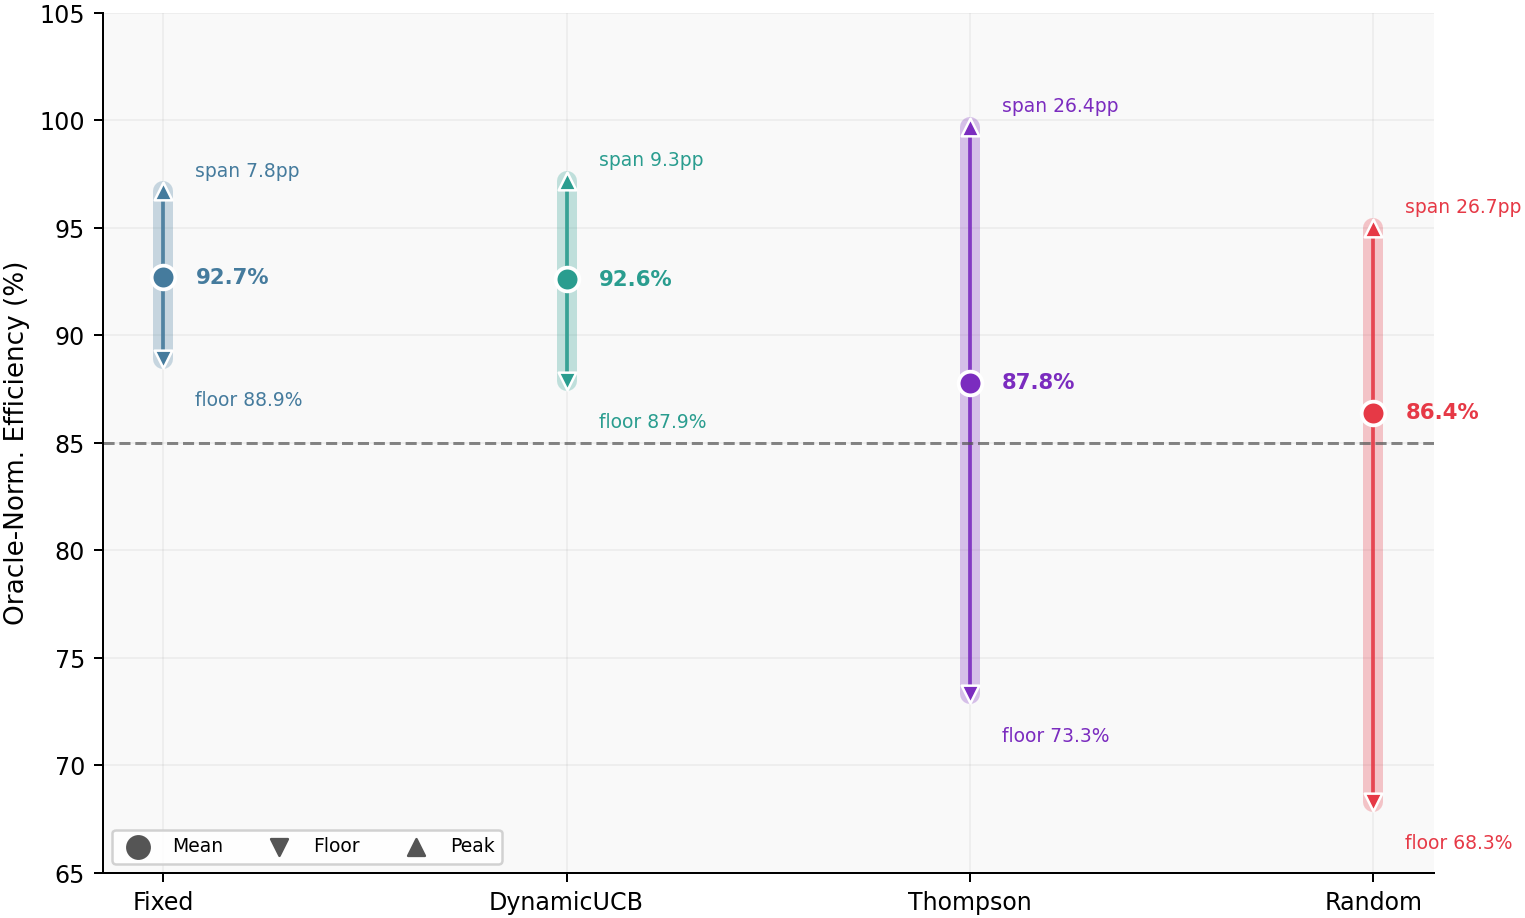
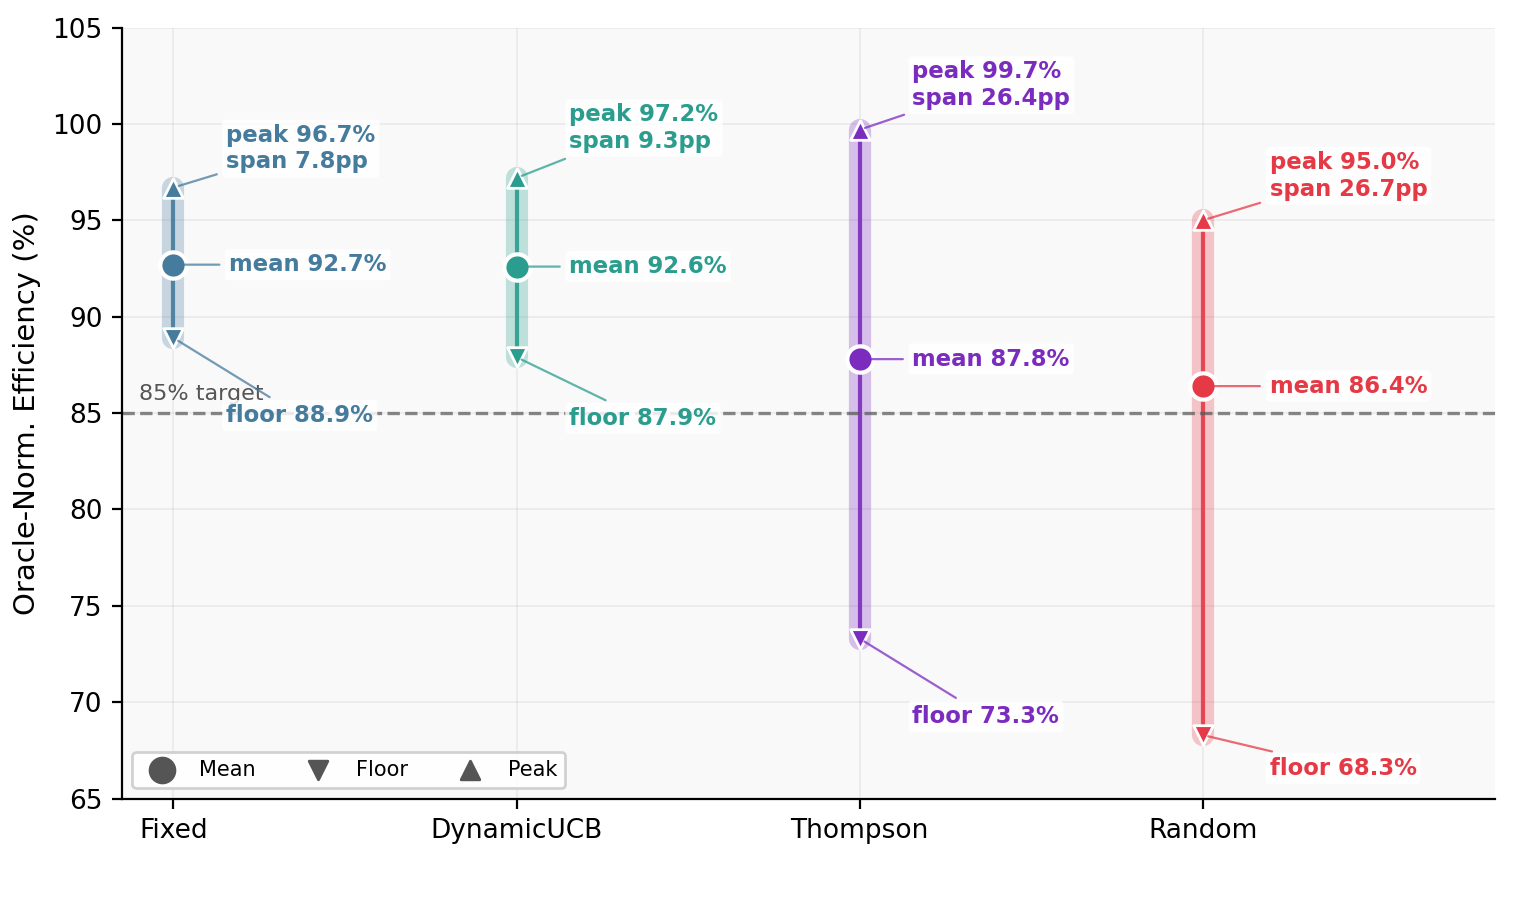
Label Figure 7B allocator risk values

diff --git a/figures/icnp-exported-assets/build_G8_G9.py b/figures/icnp-exported-assets/build_G8_G9.py
@@ -13,10 +13,12 @@ All data sourced from validated main.tex tables:
   topology §IV-A (4-node diamond, 35-qubit budget)
 
 Run from repo root:
-  python figures/icnp_graphs/build_G8_G9.py
+  python figures/icnp-exported-assets/build_G8_G9.py
+  python figures/icnp-exported-assets/build_G8_G9.py --only panel-h
 """
 from __future__ import annotations
 from pathlib import Path
+import argparse
 import matplotlib
 matplotlib.use('Agg')
 import matplotlib.pyplot as plt
@@ -27,6 +29,11 @@ import numpy as np
 SCRIPT_DIR = Path(__file__).resolve().parent
 OUT_G8 = SCRIPT_DIR / "G8_advanced_4panel.png"
 OUT_G9 = SCRIPT_DIR / "G9_network_gap_analysis.png"
+OUT_PANEL_H = (
+    SCRIPT_DIR.parent
+    / "icnp"
+    / "ICNP-CODE-037_g9_network_gap_analysis_panel_h_allocator_risk_floor_mean_peak_icpursuit.png"
+)
 
 RNG = np.random.default_rng(42)
 
@@ -159,6 +166,63 @@ def label_bar_values_inside(ax, bars, *, suffix='%', text_color='white', y_paddi
             fontweight='bold',
             zorder=7,
         )
+
+
+def annotate_point_value(ax, x, y, text, color, xytext, *, ha='left'):
+    ax.annotate(
+        text,
+        xy=(x, y),
+        xytext=xytext,
+        textcoords='offset points',
+        ha=ha,
+        va='center',
+        fontsize=8.2,
+        color=color,
+        fontweight='bold',
+        bbox=dict(boxstyle='round,pad=0.18', facecolor='white', alpha=0.84, edgecolor='none'),
+        arrowprops=dict(arrowstyle='-', color=color, lw=0.8, alpha=0.75),
+        zorder=9,
+        clip_on=False,
+    )
+
+
+def draw_allocator_risk_panel(ax, *, include_panel_label=True):
+    alloc_names_h = ['Fixed', 'DynamicUCB', 'Thompson', 'Random']
+    alloc_cols_h = [C['FIXED'], C['DUB'], C['THOM'], C['RAND']]
+    alloc_peak_h = [min(100.0, f + s) for f, s in zip(ALLOC_FLOOR, ALLOC_SPAN)]
+    label_offsets = {
+        'Fixed': dict(peak=(19, 14), mean=(20, 0), floor=(19, -28), ha='left'),
+        'DynamicUCB': dict(peak=(19, 18), mean=(19, 0), floor=(19, -22), ha='left'),
+        'Thompson': dict(peak=(19, 16), mean=(19, 0), floor=(19, -28), ha='left'),
+        'Random': dict(peak=(24, 16), mean=(24, 0), floor=(24, -12), ha='left'),
+    }
+    for i, (an, ac) in enumerate(zip(alloc_names_h, alloc_cols_h)):
+        fl = ALLOC_FLOOR[i]
+        avg = ALLOC_AVG[i]
+        pk = alloc_peak_h[i]
+        ax.plot([i, i], [fl, pk], color=ac, lw=8, alpha=0.28, solid_capstyle='round')
+        ax.plot([i, i], [fl, pk], color=ac, lw=1.5, alpha=0.9)
+        ax.scatter(i, avg, s=90, color=ac, zorder=6, edgecolors='white', lw=1.5)
+        ax.scatter(i, fl, s=50, marker='v', color=ac, zorder=6, edgecolors='white', lw=1)
+        ax.scatter(i, pk, s=50, marker='^', color=ac, zorder=6, edgecolors='white', lw=1)
+        offsets = label_offsets[an]
+        annotate_point_value(ax, i, pk, f'peak {pk:.1f}%\nspan {ALLOC_SPAN[i]:.1f}pp', ac, offsets['peak'], ha=offsets['ha'])
+        annotate_point_value(ax, i, avg, f'mean {avg:.1f}%', ac, offsets['mean'], ha=offsets['ha'])
+        annotate_point_value(ax, i, fl, f'floor {fl:.1f}%', ac, offsets['floor'], ha=offsets['ha'])
+    ax.axhline(85, color=C['THRESH'], ls='--', lw=1.2, alpha=0.7)
+    ax.text(-0.1, 85.45, '85% target', ha='left', va='bottom', fontsize=8.0, color=C['THRESH'])
+    ax.set_xticks(range(4))
+    ax.set_xticklabels(alloc_names_h)
+    ax.set_xlim(-0.15, 3.85)
+    ax.set_ylim(65, 105)
+    ax.set_ylabel('Oracle-Norm. Efficiency (%)')
+    ax.set_facecolor('#f9f9f9')
+    ax.scatter([], [], s=80, color='#555', label='Mean')
+    ax.scatter([], [], s=45, color='#555', marker='v', label='Floor')
+    ax.scatter([], [], s=45, color='#555', marker='^', label='Peak')
+    ax.legend(fontsize=7.5, loc='lower left', ncol=3, frameon=True, framealpha=0.88)
+    if include_panel_label:
+        panel_label(ax, 'H', 'Allocator Risk: Floor / Mean / Peak (iCPursuitNeural)')
 
 
 def base_style():
@@ -412,27 +476,7 @@ def build_G9():
     panel_label(ax7,'G','Scenario Penalty vs Baseline by Algorithm & Threat')
 
     # H: allocator risk profile
-    alloc_names_h=['Fixed','DynamicUCB','Thompson','Random']
-    alloc_cols_h=[C['FIXED'],C['DUB'],C['THOM'],C['RAND']]
-    alloc_peak_h=[min(100.0,f+s) for f,s in zip(ALLOC_FLOOR,ALLOC_SPAN)]
-    for i,(an,ac) in enumerate(zip(alloc_names_h,alloc_cols_h)):
-        fl=ALLOC_FLOOR[i]; avg=ALLOC_AVG[i]; pk=alloc_peak_h[i]
-        ax8.plot([i,i],[fl,pk],color=ac,lw=8,alpha=0.28,solid_capstyle='round')
-        ax8.plot([i,i],[fl,pk],color=ac,lw=1.5,alpha=0.9)
-        ax8.scatter(i,avg,s=90,color=ac,zorder=6,edgecolors='white',lw=1.5)
-        ax8.scatter(i,fl,s=50,marker='v',color=ac,zorder=6,edgecolors='white',lw=1)
-        ax8.scatter(i,pk,s=50,marker='^',color=ac,zorder=6,edgecolors='white',lw=1)
-        ax8.text(i+0.08,avg,f'{avg:.1f}%',va='center',fontsize=8.5,color=ac,fontweight='bold')
-        ax8.text(i+0.08,fl-1.5,f'floor {fl:.1f}%',va='top',fontsize=7.5,color=ac)
-        ax8.text(i+0.08,pk+0.5,f'span {ALLOC_SPAN[i]:.1f}pp',va='bottom',fontsize=7.5,color=ac)
-    ax8.axhline(85,color=C['THRESH'],ls='--',lw=1.2,alpha=0.7)
-    ax8.set_xticks(range(4)); ax8.set_xticklabels(alloc_names_h)
-    ax8.set_ylim(65,105); ax8.set_ylabel('Oracle-Norm. Efficiency (%)')
-    ax8.set_facecolor('#f9f9f9')
-    ax8.scatter([],[],s=80,color='#555',label='Mean'); ax8.scatter([],[],s=45,color='#555',marker='v',label='Floor')
-    ax8.scatter([],[],s=45,color='#555',marker='^',label='Peak')
-    ax8.legend(fontsize=7.5,loc='lower left',ncol=3,frameon=True,framealpha=0.88)
-    panel_label(ax8,'H','Allocator Risk: Floor / Mean / Peak (iCPursuitNeural)')
+    draw_allocator_risk_panel(ax8)
 
     # I: cross-testbed violin
     tl=list(TESTBED_EFF.keys()); tv=list(TESTBED_EFF.values())
@@ -470,7 +514,30 @@ def build_G9():
     print(f"Wrote {OUT_G9}")
 
 
+def build_allocator_risk_panel():
+    base_style()
+    fig, ax = plt.subplots(figsize=(7.625, 4.59), dpi=200)
+    fig.patch.set_facecolor('white')
+    draw_allocator_risk_panel(ax, include_panel_label=False)
+    fig.subplots_adjust(left=0.08, right=0.98, top=0.97, bottom=0.13)
+    fig.savefig(OUT_PANEL_H, dpi=200, facecolor='white')
+    plt.close(fig)
+    print(f"Wrote {OUT_PANEL_H}")
+
+
 if __name__ == "__main__":
-    build_G8()
-    build_G9()
-    print("All done.")
+    parser = argparse.ArgumentParser(description="Build ICNP G8/G9 result figures.")
+    parser.add_argument(
+        "--only",
+        choices=["all", "panel-h"],
+        default="all",
+        help="Build all figures or only the Figure 7B allocator-risk panel.",
+    )
+    args = parser.parse_args()
+    if args.only == "panel-h":
+        build_allocator_risk_panel()
+    else:
+        build_G8()
+        build_G9()
+        build_allocator_risk_panel()
+        print("All done.")

diff --git a/ICNP_VENUE_PREP/RESULTS_VALIDATED_STAGING.tex b/ICNP_VENUE_PREP/RESULTS_VALIDATED_STAGING.tex
@@ -263,6 +263,8 @@ and replay settings to the active threat.
   \includegraphics[width=\linewidth]{figures/icnp/ICNP-CODE-042_g4_deployment_rules.png}
   \end{minipage}}
 \hfill
+% \shee{For Figure 7B, the caption values do not appear to match the plotted graph.}
+% SOLVED: Regenerated Figure 7B with point labels so the captioned OnlineAdaptive and allocator-risk values are directly visible in the plot.
 \subfloat[For \texttt{iCPursuitNeuralUCB}, allocator choice changes worst-case
 robustness: \texttt{Fixed (Default or Baseline)} keeps an 88.9\% floor, while \texttt{Thompson} drops
 to 73.3\%. This 15.6 percentage-point floor shift shows that allocator
@@ -372,4 +374,3 @@ OnlineAdaptive & Fixed + ($T$, $s=2$) & 99.8 & +0.0 \\
 \end{table}
 
 \Cref{tab:rq3d_deployment_rules,fig:deployment_guidance} show the RQ3d conclusion: clear deployment rules emerge, but the static default remains strong enough to keep all scenarios above the 85\% target at 6K. Threat-adaptive switching is most useful as a safeguard against the allocator/capacity mismatch diagnosed in RQ3b--RQ3c, with the largest validated gain under Adaptive disruption.
-
